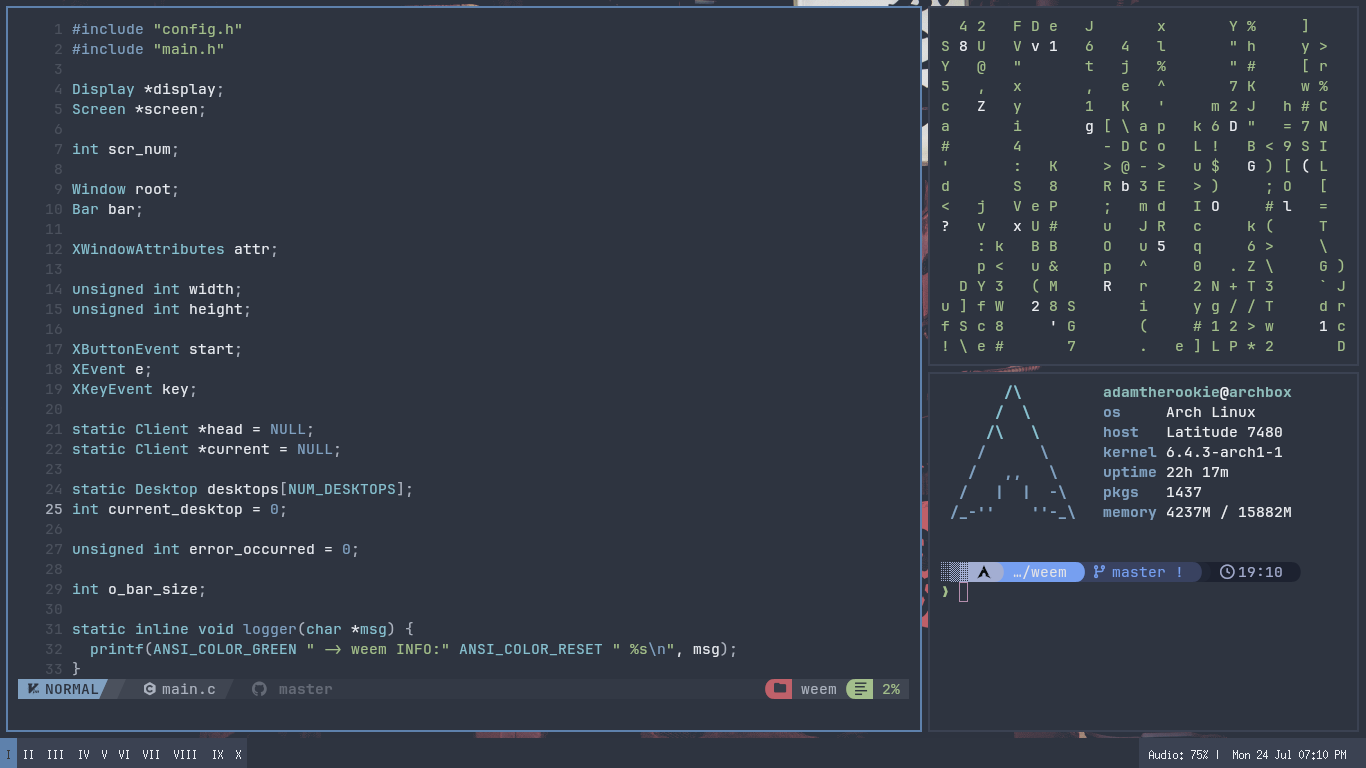
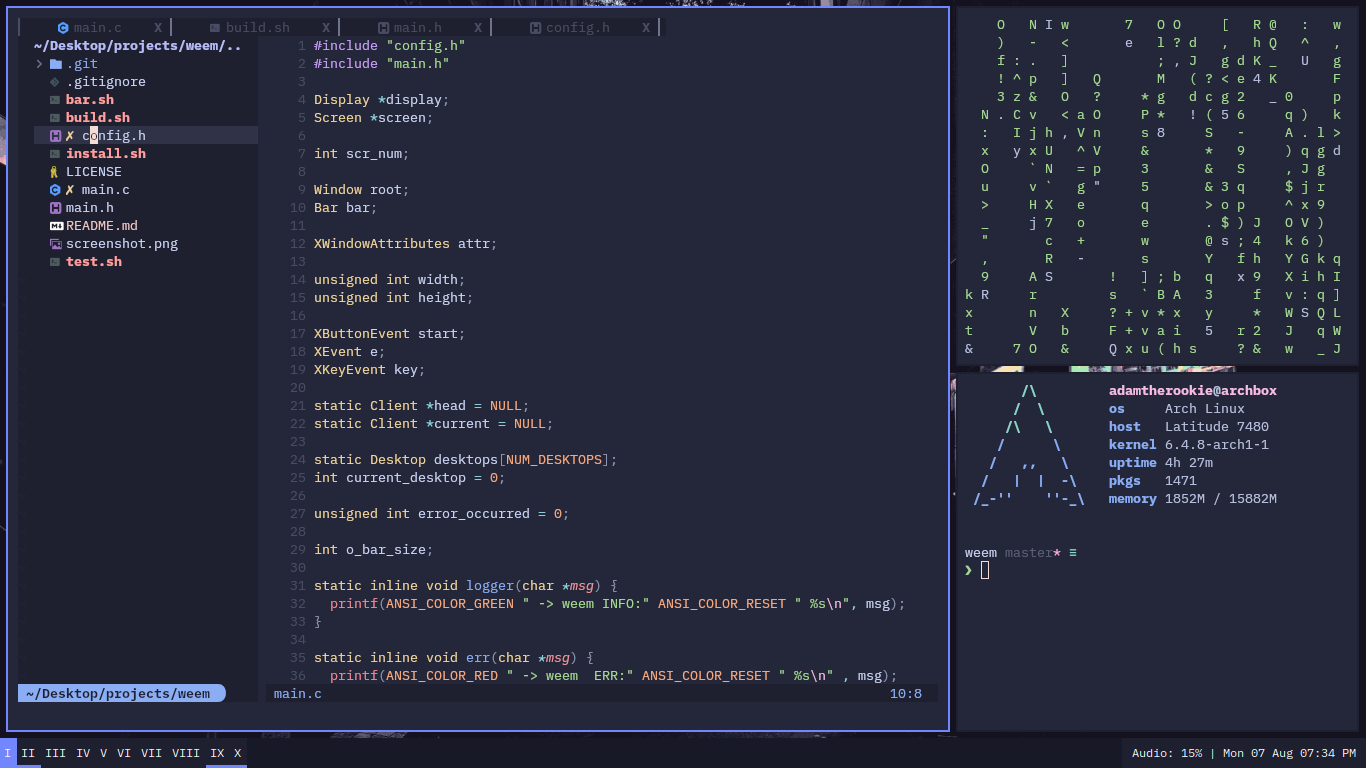
updated screenshot

diff --git a/config.h b/config.h
@@ -96,8 +96,8 @@ float master_tick             = 0.05;
 
 unsigned int gap_width        = 6;
 unsigned int border_width     = 2;
-unsigned long border_focus    = 0x5E81AC;
-unsigned long border_unfocus  = 0x3B4252;
+unsigned long border_focus    = 0x7287FD;
+unsigned long border_unfocus  = 0x1E2030;
 
 // weembar
 unsigned int show_bar         = true;
@@ -108,8 +108,8 @@ unsigned int icons_size       = 7;
 unsigned int icons_padding    = 10; // for best results, make it (icons_size + (font_size / 2))
 unsigned int bar_occu_size    = 3;
 unsigned int bar_occu_type    = underline;
-unsigned int desktop_focus    = 0x5E81AC;
-unsigned int desktop_unfocus  = 0x3B4252;
+unsigned int desktop_focus    = 0x7287FD;
+unsigned int desktop_unfocus  = 0x1E2030;
 unsigned int text_focus       = 0x393939;
 unsigned int text_unfocus     = 0xECEFF4;
 
@@ -125,7 +125,7 @@ unsigned int bar_border_color = 0xff0000;
 unsigned int bar_padding_x    = 0;
 unsigned int bar_padding_y    = 0;
 unsigned long font_color      = 0xECEFF4;
-unsigned long bar_color       = 0x2E3440;
+unsigned long bar_color       = 0x181926;
 unsigned int font_size        = 9;
 char *font_name               = "Blex Mono Nerd Font:size=9";
 

diff --git a/main.c b/main.c
@@ -468,7 +468,7 @@ static inline void DrawTimeAndCustom() {
     else
       strftime(time_str, sizeof(time_str), "%a %d %b %H:%M", tm_info);
   
-  int time_x = width - strlen(time_str) * icons_size - icons_padding - bar_padding_x;
+  int time_x = width - strlen(time_str) * icons_size - bar_padding_x;
   int time_y = (bar_size / 2) + (font_size / 2);
 
   XSetForeground(display, DefaultGC(display, DefaultScreen(display)), desktop_unfocus);

diff --git a/README.md b/README.md
@@ -6,6 +6,7 @@ A small, lightweight, customizable X window manager written in C.
 <hr>
 
 ![screenshot](./screenshot.png)
+> weem/weembar default config, catppuccin macchiato colorscheme. Open windows: nvim, kitty, cmatrix
 
 ## Features
 - Tiling (master and stack)
